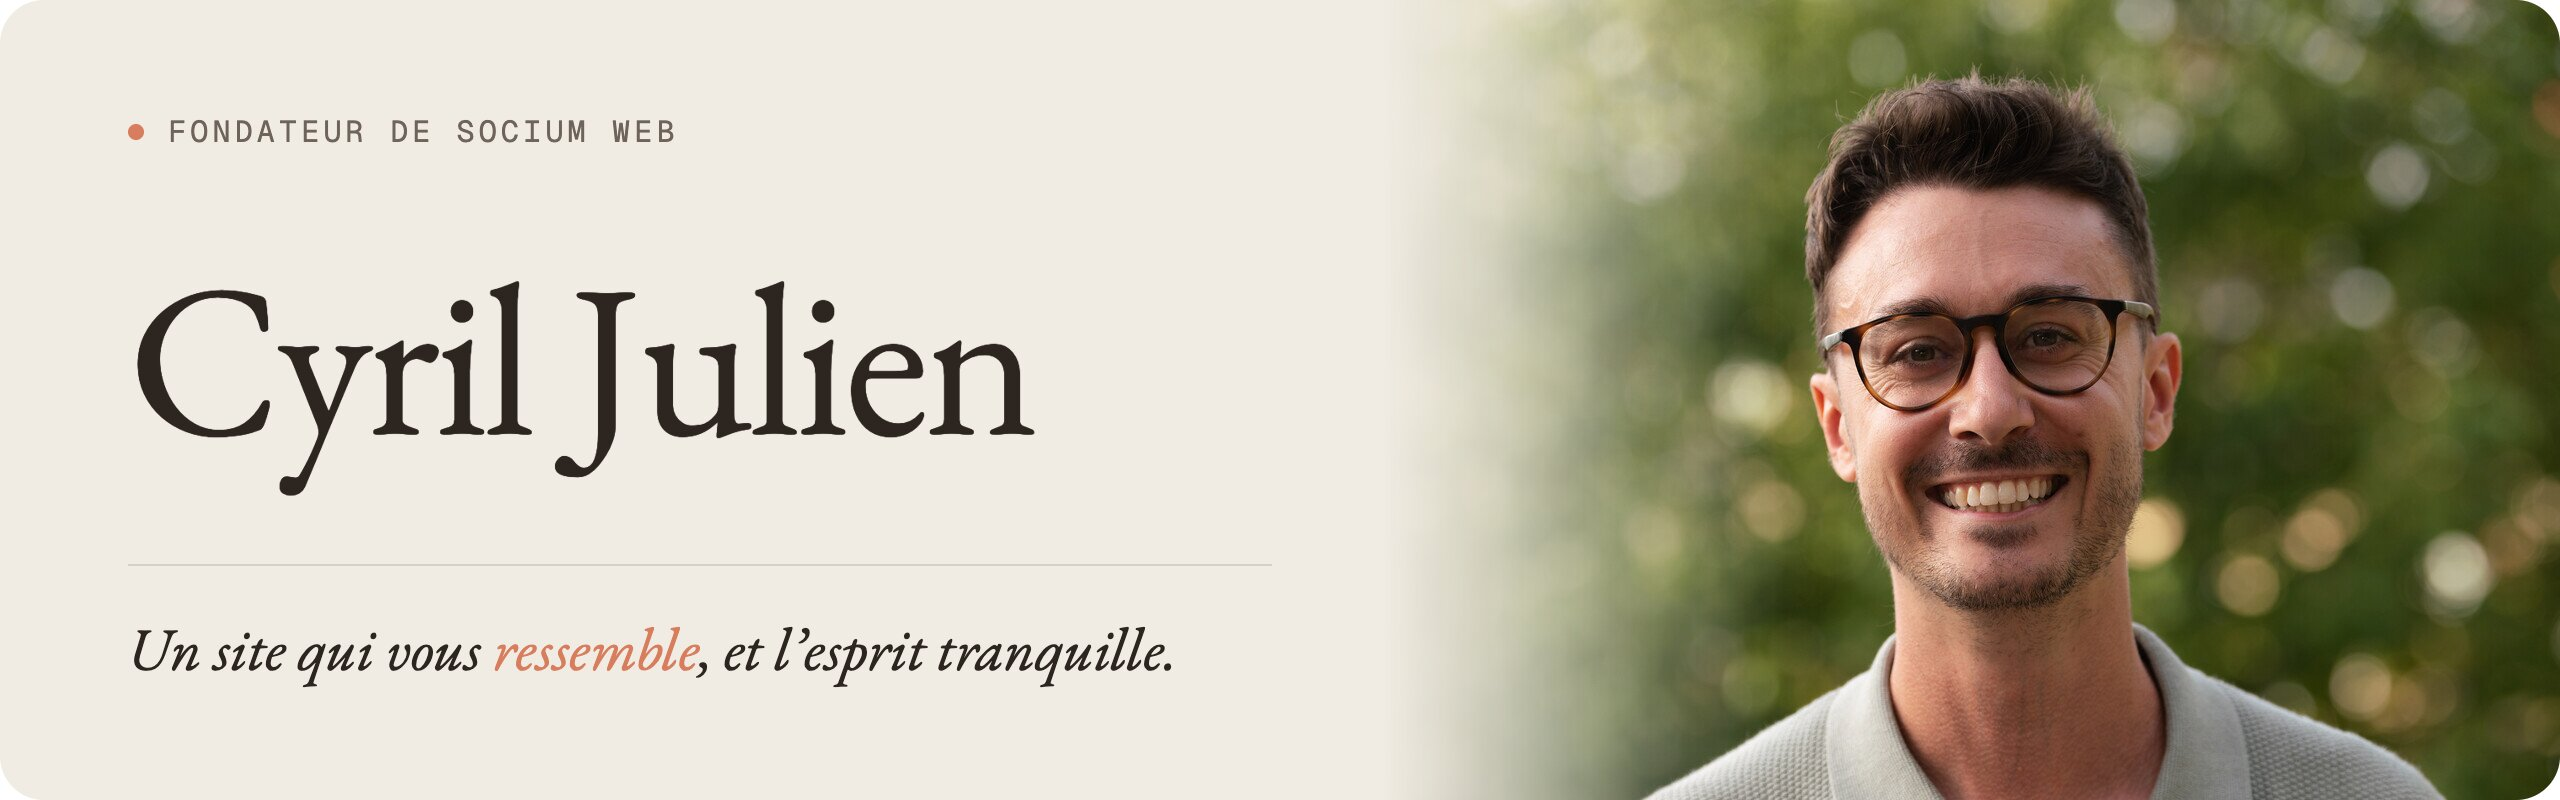
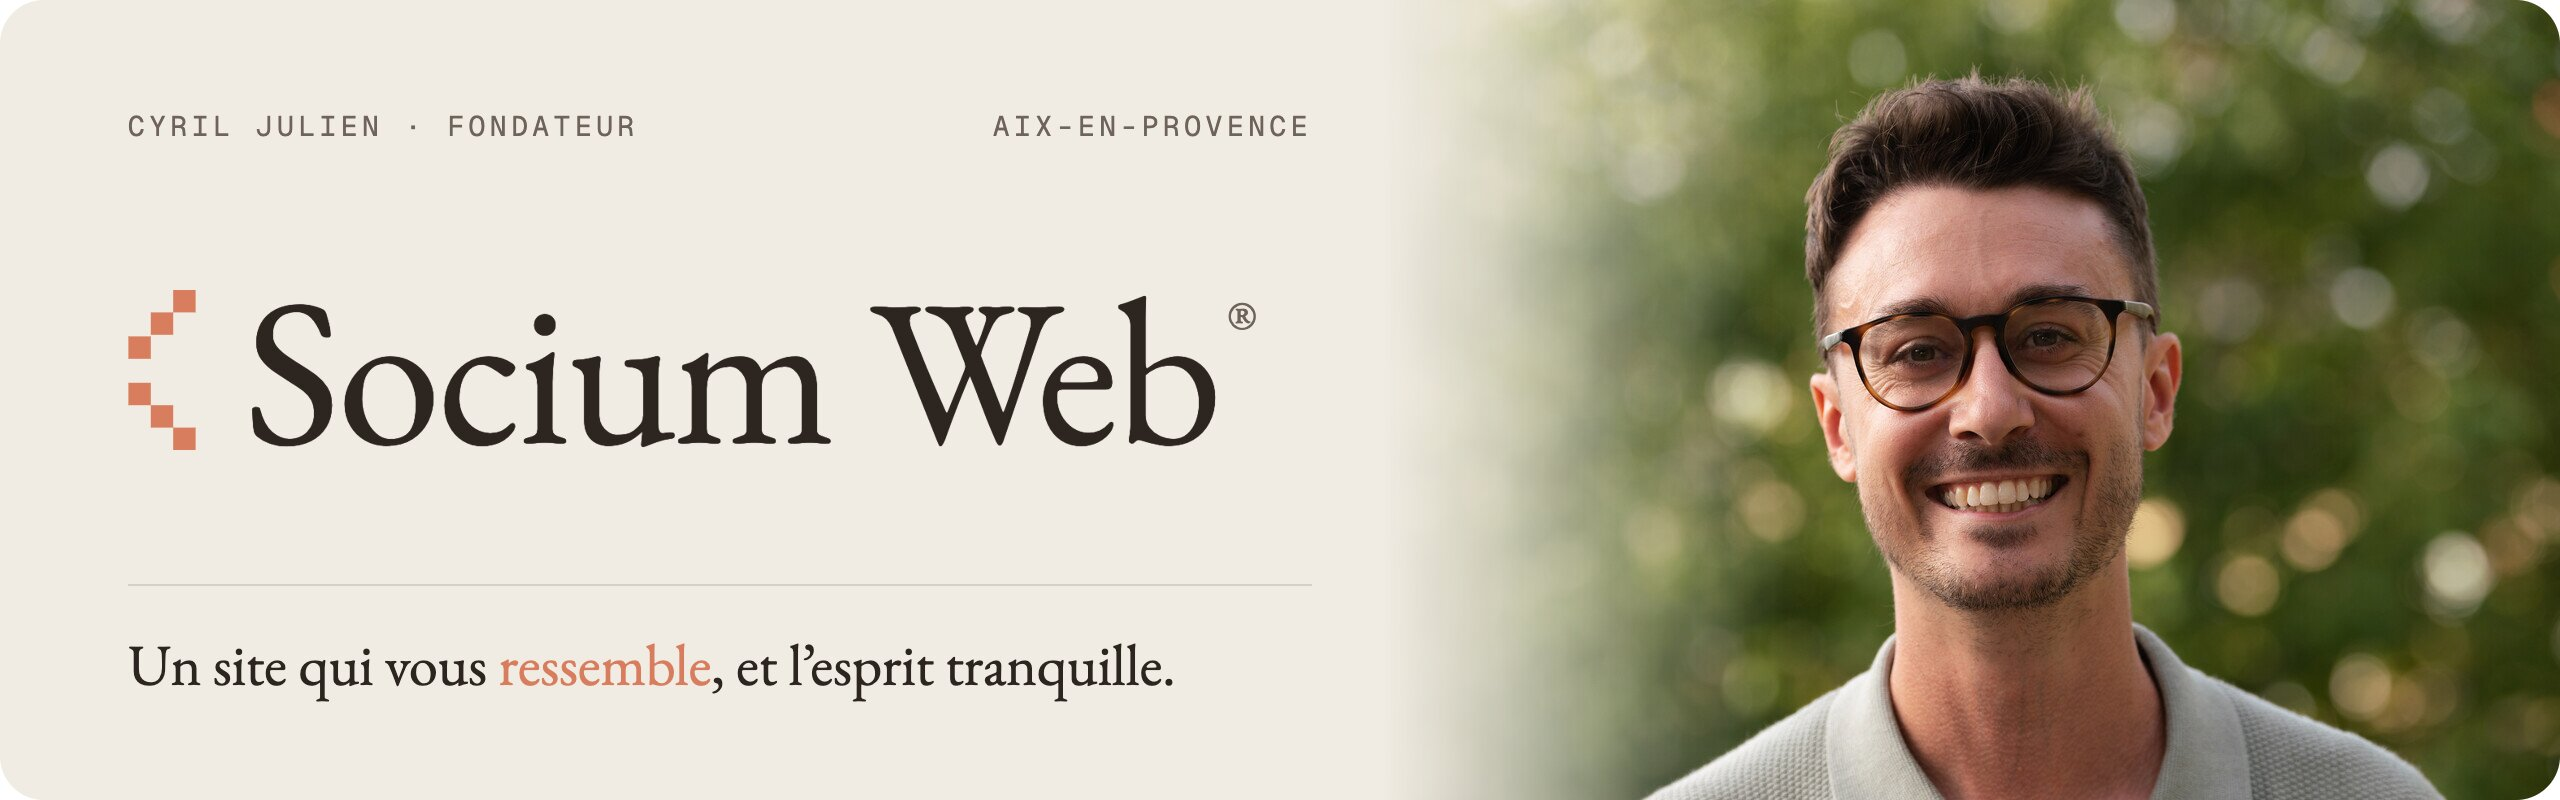
Profil : bannière Socium Web, boutons vers l'appel, le contact et le mail, Liliane à la place d'Ubaye

diff --git a/README.md b/README.md
@@ -1,6 +1,6 @@
 <picture>
   <source media="(prefers-color-scheme: dark)" srcset="assets/banniere-sombre.jpg">
-  <img src="assets/banniere-claire.jpg" alt="Cyril Julien, fondateur de Socium Web. Un site qui vous ressemble, et l'esprit tranquille." width="100%">
+  <img src="assets/banniere-claire.jpg" alt="Socium Web, par Cyril Julien, fondateur, à Aix-en-Provence. Un site qui vous ressemble, et l'esprit tranquille." width="100%">
 </picture>
 
 <br>
@@ -9,9 +9,9 @@ Je dirige **[Socium Web](https://www.sociumweb.com)**, une agence web près d'Ai
 
 <table>
 <tr>
-<td width="33%" valign="top"><b>« Mon site ne me ramène pas de clients. »</b><br><br>Vous avez une activité : on crée le site qui la montre, et on s'occupe du reste.<br><br><a href="#votre-activité">Ce qu'on fait ↓</a></td>
-<td width="33%" valign="top"><b>« Je cherche quelqu'un de fiable pour un client. »</b><br><br>Vous êtes une agence, un consultant, un partenaire : présentez-nous, ou travaillons ensemble.<br><br><a href="#agences-et-partenaires">Travailler ensemble ↓</a></td>
-<td width="33%" valign="top"><b>« Je suis développeur et je code avec Claude. »</b><br><br>Socium Web grandit en 2027 : voici comment on travaille, et comment nous rejoindre.<br><br><a href="#développeurs">Nous rejoindre ↓</a></td>
+<td width="33%" valign="top"><b>« Mon site ne me ramène pas de clients. »</b><br><br>Vous avez une activité : on crée le site qui la montre, et on s'occupe du reste.<br><br><a href="https://calendly.com/socium_web/appel-decouverte?utm_source=github&amp;utm_medium=profil&amp;utm_campaign=clients"><img src="assets/boutons/rdv.png" width="240" alt="Réserver un échange offert"></a></td>
+<td width="33%" valign="top"><b>« Je cherche quelqu'un de fiable pour un client. »</b><br><br>Vous êtes une agence, un consultant, un partenaire : présentez-nous, ou travaillons ensemble.<br><br><a href="https://www.sociumweb.com/contact?utm_source=github&amp;utm_medium=profil&amp;utm_campaign=partenaires"><img src="assets/boutons/partenaire.png" width="240" alt="Présenter un projet"></a></td>
+<td width="33%" valign="top"><b>« J'aimerais travailler avec vous. »</b><br><br>Socium Web va grandir, avec des profils curieux et polyvalents plus que des développeurs purs.<br><br><a href="mailto:contact@sociumweb.com?subject=Travailler%20avec%20Socium%20Web"><img src="assets/boutons/rejoindre.png" width="240" alt="Écrivez-moi"></a></td>
 </tr>
 </table>
 
@@ -24,7 +24,7 @@ Je dirige **[Socium Web](https://www.sociumweb.com)**, une agence web près d'Ai
 </tr>
 <tr>
 <td width="50%" valign="top"><a href="https://sereaum.com"><img src="assets/projets/sereaum.webp" alt="Sereaum" width="100%"></a><br><b>Sereaum</b><br><sub>La boutique d'eau de mer en cure · Next.js, Shopify</sub></td>
-<td width="50%" valign="top"><a href="https://www.ubayecanyoning.fr"><img src="assets/projets/ubaye.webp" alt="Ubaye Canyoning" width="100%"></a><br><b>Ubaye Canyoning</b><br><sub>Le canyoning dans les Alpes du Sud, en trois langues · Next.js</sub></td>
+<td width="50%" valign="top"><a href="https://www.lilianemaibach.ch"><img src="assets/projets/liliane.webp" alt="Liliane Maibach" width="100%"></a><br><b>Liliane Maibach</b><br><sub>Stratégie marketing pour les PME de Suisse romande · Next.js</sub></td>
 </tr>
 <tr>
 <td width="50%" valign="top"><a href="https://www.valentinezeller.com"><img src="assets/projets/valentine.webp" alt="Valentine Zeller" width="100%"></a><br><b>Valentine Zeller</b><br><sub>Breathwork : séances, formation, boutique · Next.js</sub></td>
@@ -68,17 +68,17 @@ Un coup de main ponctuel ? **Socium Flash** pour débloquer une situation en une
 >
 > **Coraline Deshaies**, Ta partenaire CEO
 
-<a href="https://calendly.com/socium_web/appel-decouverte"><img src="assets/bouton-rdv.png" width="288" alt="Réserver un échange offert"></a>
+<a href="https://calendly.com/socium_web/appel-decouverte?utm_source=github&amp;utm_medium=profil&amp;utm_campaign=activite"><img src="assets/boutons/rdv.png" width="240" alt="Réserver un échange offert"></a>
 
 ## Agences et partenaires
 
 Un de vos clients a besoin d'un site, d'une refonte ou d'un coup de main technique ? Présentez-nous : le premier échange est offert, sans engagement. Et si le projet se mène à plusieurs, on sait travailler aux côtés d'une agence, comme avec Pickbeam pour la coopérative VST.
 
-[Écrire à Socium Web](mailto:contact@sociumweb.com)
+<a href="https://www.sociumweb.com/contact?utm_source=github&amp;utm_medium=profil&amp;utm_campaign=partenaires"><img src="assets/boutons/partenaire.png" width="240" alt="Présenter un projet"></a>
 
-## Développeurs
+## Travailler avec nous
 
-Socium Web passe en agence en 2027, et cherche des développeurs qui aiment le travail soigné et codent avec Claude Code. Ici, on travaille comme ça :
+Socium Web va grandir. Les profils qui m'intéressent sont curieux et polyvalents plus que développeurs purs : à l'aise avec un client comme avec le code, et habitués à travailler avec Claude Code. Ici, on travaille comme ça :
 
 - **Une doctrine écrite.** Copy, design, SEO, produit : les règles vivent dans des fichiers versionnés, que les agents lisent avant d'agir.
 - **Mesurer avant de changer.** Search Console, PostHog et Ahrefs disent où agir, puis si ça a marché.
@@ -89,7 +89,9 @@ Socium Web passe en agence en 2027, et cherche des développeurs qui aiment le t
   <img src="assets/stack-claire.svg" alt="Next.js, React, Nuxt, TypeScript, Node.js, NestJS, Laravel, PostgreSQL, Supabase, Shopify, Sanity, Tailwind CSS, Vercel, Claude Code" width="560">
 </picture>
 
-Envie d'en être ? [Écrivez-moi](mailto:contact@sociumweb.com) avec un lien vers ce que vous avez construit.
+Ça vous parle ? Écrivez-moi, avec un lien vers ce que vous avez construit ou mené.
+
+<a href="mailto:contact@sociumweb.com?subject=Travailler%20avec%20Socium%20Web"><img src="assets/boutons/rejoindre.png" width="240" alt="Écrivez-moi"></a>
 
 ---
 
